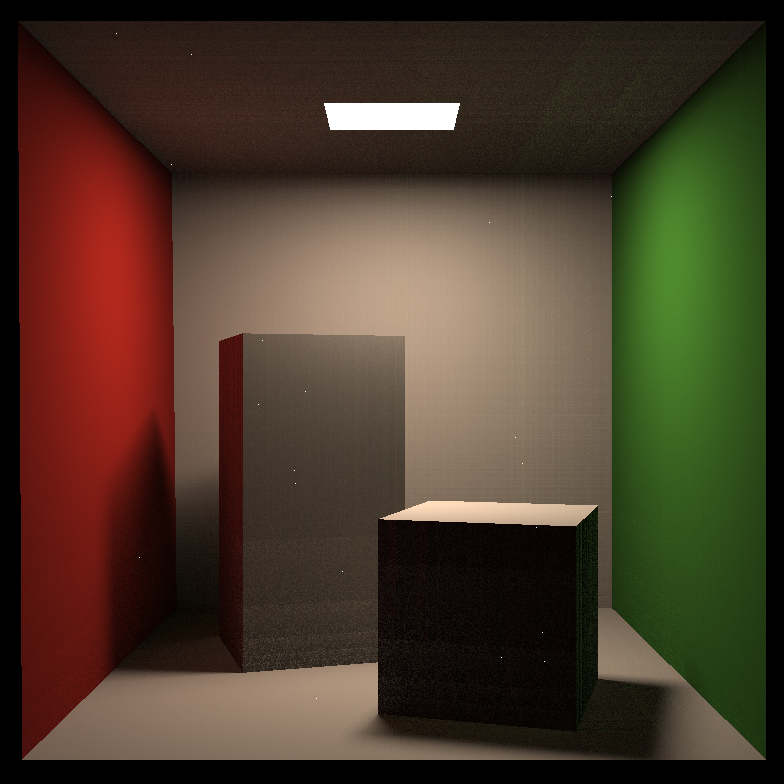
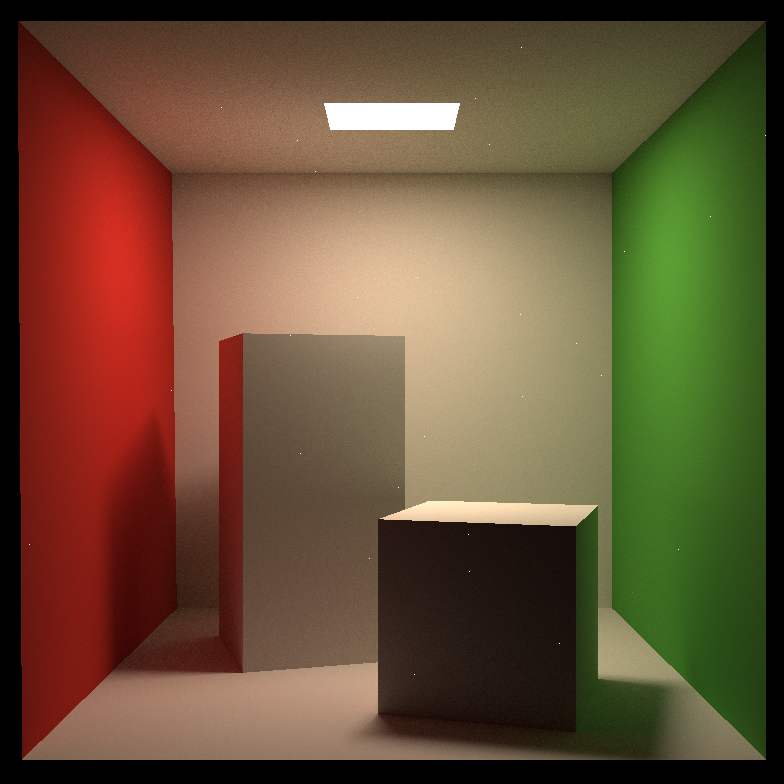
10.30 homework7 fix bug, get better image

diff --git a/Homework7/Assignment7/Renderer.cpp b/Homework7/Assignment7/Renderer.cpp
@@ -9,11 +9,10 @@
 #include "Renderer.hpp"
 
 std::mutex mtx;
-int progress = 0;
 
 inline float deg2rad(const float& deg) { return deg * M_PI / 180.0; }
 
-const float EPSILON = 0.001;  //origin is 0.00001
+const float EPSILON = 0.001;  //origin is 0.00001, set 0.001
 
 // The main render function. This where we iterate over all pixels in the image,
 // generate primary rays and cast these rays into the scene. The content of the
@@ -31,7 +30,7 @@ void Renderer::Render(const Scene& scene)
     int spp = 1024;   // origin is 16
     std::cout << "SPP: " << spp << "\n";
 
-/*
+/* 原始path tracing模型
     for (uint32_t j = 0; j < scene.height; ++j) {
         for (uint32_t i = 0; i < scene.width; ++i) {
             // generate primary ray direction
@@ -47,38 +46,35 @@ void Renderer::Render(const Scene& scene)
         }
         UpdateProgress(j / (float)scene.height);
     }
-    UpdateProgress(1.f);
-*/  // 使用多线程模型进行替换
-    int num_threads = 32;
+    UpdateProgress(1.f);  
+*/
+    // 使用多线程模型进行替换
+    int num_threads = 256;
     std::thread th[num_threads];
     int thread_height = scene.height/num_threads;
     auto renderRows = [&](uint32_t start_height, uint32_t end_height) {
-        for (uint32_t j = start_height; j < end_height; ++j) 
-        {
-            for (uint32_t i = 0; i < scene.width; ++i) 
-            {
+        for (uint32_t j = start_height; j < end_height; ++j) {
+            for (uint32_t i = 0; i < scene.width; ++i) {
                 // generate primary ray direction
                 float x = (2 * (i + 0.5) / (float)scene.width - 1) *
                         imageAspectRatio * scale;
                 float y = (1 - 2 * (j + 0.5) / (float)scene.height) * scale;
 
                 Vector3f dir = normalize(Vector3f(-x, y, 1));
-                for (int k = 0; k < spp; k++){
+                for (int k = 0; k < spp; k++) {
                     framebuffer[(int)(j*scene.width+i)] += scene.castRay(Ray(eye_pos, dir), 0) / spp;  
                 }
             }
             mtx.lock();
-            progress++;
-            UpdateProgress(progress / (float)scene.height);
+            m++;
+            UpdateProgress(m / (float)scene.height);
             mtx.unlock();
         }
     };
-    for (int t = 0; t < num_threads; ++t)
-    {
+    for (int t = 0; t < num_threads; ++t) {
         th[t] = std::thread(renderRows, t*thread_height, (t+1)*thread_height);
     }
-    for (int t = 0; t < num_threads; ++t) 
-    {
+    for (int t = 0; t < num_threads; ++t)  {
         th[t].join();
     }
     UpdateProgress(1.f);

diff --git a/Homework7/Assignment7/Scene.cpp b/Homework7/Assignment7/Scene.cpp
@@ -63,10 +63,10 @@ Vector3f Scene::castRay(const Ray &ray, int depth) const
     // TO DO Implement Path Tracing Algorithm here
     Intersection inter_i = intersect(ray);
 
-    if (!inter_i.happened) // 光线与场景没有交点，返回背景色
-        return {};
+    if (!inter_i.happened) // 光线与场景没有交点，返回黑色（根据示例为黑色，实际上代码框架中还有背景色这个参数）
+        return Vector3f(0);
     
-    if (inter_i.obj->hasEmit()) // 交点是光源：1.直接光，返回光源的颜色；2.间接光，返回{0}（黑色）
+    if (inter_i.obj->hasEmit()) // 交点是光源：1.直接光，返回光源的颜色；2.间接光，返回{0}（此时返回值权重应为0，颜色设为{0}）
         return depth == 0 ? inter_i.m->getEmission() : Vector3f(0);
 
     // 交点是物体，颜色来自于 光源的直接照射 和 物体的反射/折射
@@ -83,7 +83,7 @@ Vector3f Scene::castRay(const Ray &ray, int depth) const
     if (inter_s.happened && (inter_s.coords-interLight.coords).norm() < EPSILON)  // 反射光线直达光源，中间没有阻拦
     {
         auto& L_i = interLight.emit;
-        auto f_r = inter_i.m->eval(-ray.direction, w_s, inter_i.normal);
+        auto f_r = inter_i.m->eval(-ray.direction, w_s, inter_i.normal); 
         auto cos_theta = dotProduct(w_s, inter_i.normal);
         auto cos_theta_prime = dotProduct(-w_s, interLight.normal);
         auto distance2 = dotProduct(interLight.coords - inter_i.coords, interLight.coords - inter_i.coords);
@@ -93,7 +93,7 @@ Vector3f Scene::castRay(const Ray &ray, int depth) const
         
     if (get_random_float() > RussianRoulette)
         return L_dir;
-    
+   
     auto w_o = inter_i.m->sample(-ray.direction, inter_i.normal).normalized();
     Ray r_o(inter_i.coords, w_o);
     Intersection inter_o = intersect(r_o);
@@ -103,9 +103,8 @@ Vector3f Scene::castRay(const Ray &ray, int depth) const
         auto cos_theta = dotProduct(w_o, inter_i.normal);
         auto pdf_hemi = inter_i.m->pdf(-ray.direction, w_o, inter_i.normal);
 
-        r_o = Ray(inter_o.coords, w_o);
         L_indir = castRay(r_o, depth + 1) * f_r * cos_theta / pdf_hemi / RussianRoulette;
     }
-    
+
     return L_dir + L_indir;
 }
